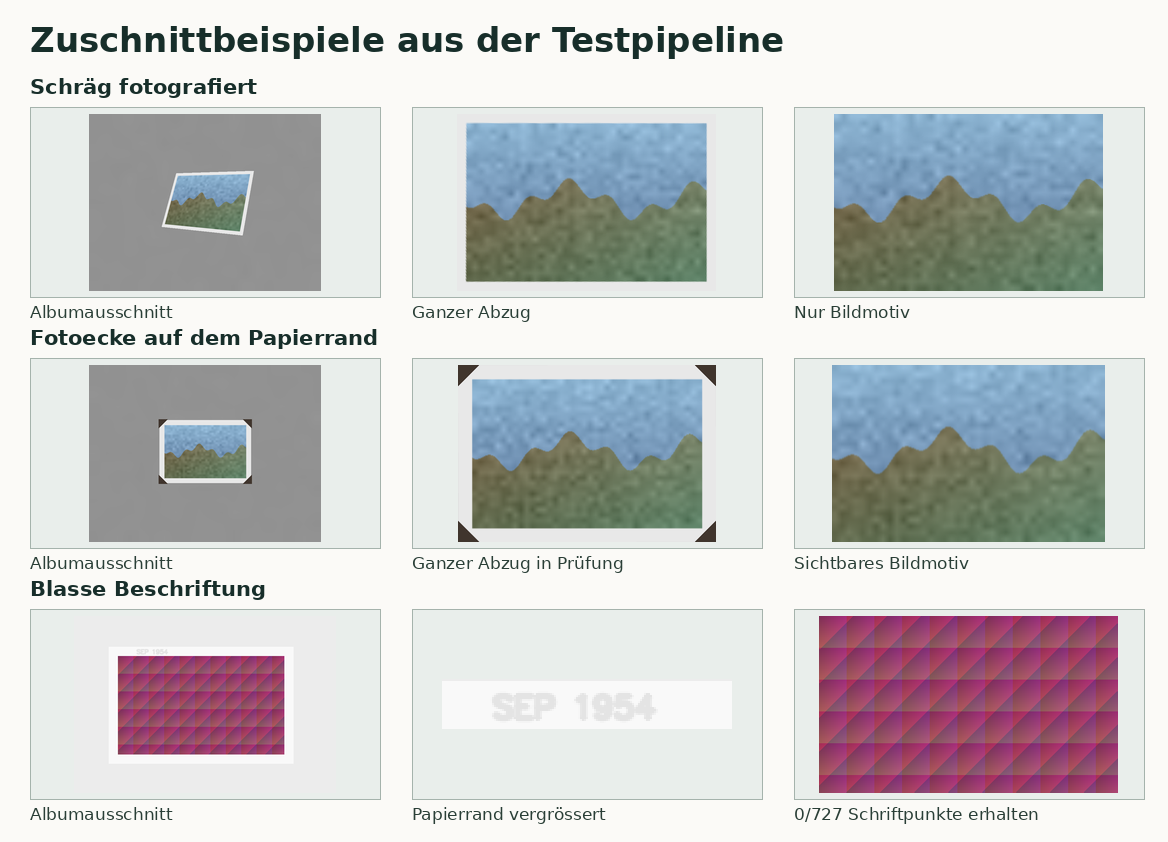
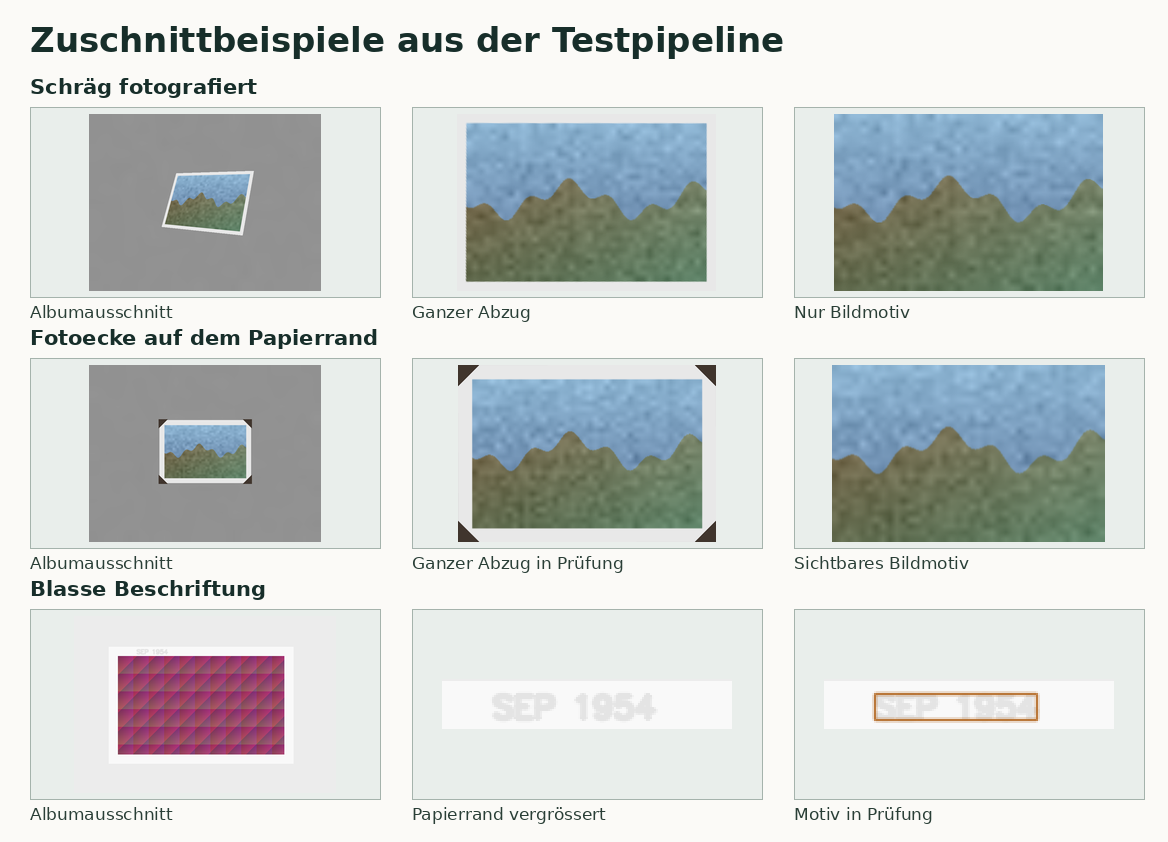
Hold motif crops that would lose faint connected dates

Changed region(s): [[0.6781, 0.7102, 0.9555, 0.9881]]

diff --git a/backend/app/pipeline/faint_margin.py b/backend/app/pipeline/faint_margin.py
@@ -59,6 +59,64 @@ def _glyph_groups(mask: np.ndarray, blue_ink: bool) -> tuple[np.ndarray, list[tu
     return labels, sorted(groups, key=lambda group: (-len(group), group))
 
 
+def _local_paper_residual(contrast: np.ndarray, owned: np.ndarray) -> np.ndarray:
+    height, width = contrast.shape
+    anchors = np.r_[np.arange(0, width - 1, max(8, height)), width - 1]
+    radius = max(20, 3 * height)
+    medians = []
+    for column in anchors:
+        band = np.s_[:, max(0, column - radius):column + radius + 1]
+        samples = contrast[band][owned[band]]
+        medians.append(float(np.median(samples)) if samples.size else 0.)
+    return contrast - np.interp(np.arange(width), anchors, medians)
+
+
+def _joined_strokes(component: np.ndarray) -> bool:
+    height, width = component.shape
+    if not 1.25 * height <= width <= 5.5 * height or not .20 <= component.mean() <= .82:
+        return False
+    # Open strokes can still branch in both directions.
+    vertical, horizontal = (np.count_nonzero(np.diff(component, axis=axis).sum(axis=axis) >= 3) for axis in (0, 1))
+    if vertical < max(3, .18 * width) or horizontal < max(3, .22 * height):
+        return False
+    distance = cv2.distanceTransform(component.astype(np.uint8), cv2.DIST_L2, 3)
+    return bool(np.quantile(distance[component], .82) >= min(1.32, .10 * height))
+
+
+def _joined_glyph_groups(mask: np.ndarray) -> tuple[np.ndarray, list[tuple[int, ...]]]:
+    _, labels, stats, centers = cv2.connectedComponentsWithStats(mask.astype(np.uint8))
+    height, width = mask.shape
+    x, y, widths, heights, areas = stats.T
+    possible = ((x > 0) & (x + widths < width) & (heights >= 5) & (heights + 2 < height)
+                & (widths >= 2) & (widths <= 5.5 * heights) & (areas >= np.maximum(5, .15 * heights ** 2)))
+    ids = np.flatnonzero(possible[1:]) + 1
+    if not 3 <= len(ids) <= 160:
+        return labels, []
+    joined = np.zeros(len(stats), dtype=bool)
+    for label in ids:
+        left, top, span, depth, _ = stats[label]
+        joined[label] = _joined_strokes(labels[top:top + depth, left:left + span] == label)
+    groups = set()
+    right, bottom = x + widths, y + heights
+    for anchor in ids[joined[ids]]:
+        scale = heights[anchor]
+        dx, dy = (centers[ids] - centers[anchor]).T
+        near = (np.abs(dx) <= 7 * scale) & (heights[ids] >= .68 * scale) & (heights[ids] <= 1.44 * scale)
+        for slope in (-.13, -.06, 0., .06, .13):
+            line = ids[near & (np.abs(dy - slope * dx) <= .42 * scale)]
+            if len(line) < 3 or joined[line].sum() < 2:
+                continue
+            line = line[np.argsort(centers[line, 0])]
+            gaps = x[line[1:]] - right[line[:-1]]
+            for row in np.split(line, np.flatnonzero(gaps > 1.3 * scale) + 1):
+                if len(row) < 3 or joined[row].sum() < 2:
+                    continue
+                baseline = bottom[row] - slope * centers[row, 0]
+                if right[row[-1]] - x[row[0]] >= 2.7 * scale and np.ptp(baseline) <= .6 * scale:
+                    groups.add(tuple(row))
+    return labels, sorted(groups, key=lambda group: (-len(group), group))
+
+
 def _source_strokes_supported(
     page: np.ndarray, forward: np.ndarray, full_size: tuple[int, int], motif: np.ndarray,
     native: np.ndarray, contrast: np.ndarray, paper_lightness: np.ndarray, blue_ink: bool,
@@ -119,16 +177,28 @@ def faint_margin_region(
     narrow_stroke = local_lightness - lightness >= np.maximum(9, 0.58 * contrast)
     red_shift = lab[:, :, 1].astype(np.float32) - cv2.medianBlur(filled[:, :, 1], broad)
     blue_shift = lab[:, :, 2].astype(np.float32) - cv2.medianBlur(filled[:, :, 2], broad)
+    neutral_ink = np.hypot(red_shift, blue_shift) <= 3
     on_pale_paper = owned & narrow_stroke & (paper_lightness >= 196)
     masks = (
-        on_pale_paper & (contrast >= 16) & (np.hypot(red_shift, blue_shift) <= 3),
+        on_pale_paper & (contrast >= 16) & neutral_ink,
         on_pale_paper & (contrast >= 13) & (blue_shift <= -6) & (np.abs(red_shift) <= 0.85 * np.abs(blue_shift) + 2),
     )
-    for blue_ink, mask in zip((False, True), masks, strict=True):
-        labels, groups = _glyph_groups(mask, blue_ink)
+
+    def candidate_groups():
+        for blue_ink, mask in zip((False, True), masks, strict=True):
+            yield blue_ink, 230, *_glyph_groups(mask, blue_ink)
+        joined_strokes = (owned & (paper_lightness >= 196) & neutral_ink
+                          & (local_lightness - lightness >= np.maximum(4, .58 * contrast)))
+        # A nonnegative paper median can only lower the absolute contrast.
+        minimum_contrast = 14.2
+        if np.count_nonzero(joined_strokes & (contrast >= minimum_contrast)) >= 15:
+            joined_strokes &= _local_paper_residual(contrast, owned) >= minimum_contrast
+            yield False, 240, *_joined_glyph_groups(joined_strokes)
+
+    for blue_ink, samples, labels, groups in candidate_groups():
         for group in groups:
             rows, columns = np.nonzero(np.isin(labels, group))
-            stride = max(1, len(rows) // 230)
+            stride = max(1, len(rows) // samples)
             source_rows, source_columns = rows[::stride], columns[::stride]
             native = project_to_source(np.column_stack((source_columns, source_rows)))
             if _source_strokes_supported(page, forward, full_size, motif, native,

diff --git a/scripts/render_crop_examples.py b/scripts/render_crop_examples.py
@@ -9,6 +9,7 @@ import numpy as np
 from PIL import Image, ImageDraw, ImageFont
 
 from app.evaluation.crop_fixtures import geometry_seed, synthetic_crop_pages
+from app.pipeline.geometry import normalized_vertices_to_pixels
 from app.pipeline.perspective import correct_photo_crop
 
 
@@ -18,7 +19,7 @@ def crop(page, box, mask):
     )
 
 
-def faint_caption():
+def faint_caption(*, include_review_overlay=False):
     scale = 2
     page = np.full((230 * scale, 340 * scale, 3), 236, np.uint8)
     page[80:384, 90:570] = 249
@@ -31,15 +32,23 @@ def faint_caption():
     mask = {"polygon": [{"x": x / 679, "y": y / 459} for x, y in points]}
     result = crop(page, {}, mask)
     state = result.metadata["crop_modes"]["image_only"]
+    detail = page[79:104, 137:282]
     if result.image_only is None:
-        return page, page[79:104, 137:282], None, "Motiv in Prüfung"
+        review = None
+        if include_review_overlay:
+            marked = page.copy()
+            for region in state.get("margin_mark_regions", []):
+                points = normalized_vertices_to_pixels([(p["x"], p["y"]) for p in region], *page.shape[1::-1])
+                cv2.polylines(marked, [np.rint(points).astype(np.int32)], True, (40, 108, 181), 1, cv2.LINE_AA)
+            review = cv2.resize(marked[79:104, 137:282], None, fx=2, fy=2, interpolation=cv2.INTER_NEAREST)
+        return page, detail, review, "Motiv in Prüfung"
 
     rows, columns = np.nonzero(ink >= 90)
     pixels = np.column_stack((columns, rows)).astype(np.float32)
     mapped = cv2.perspectiveTransform(pixels[None], np.asarray(state["page_to_output"]))[0]
     height, width = result.image_only.shape[:2]
     kept = np.count_nonzero(((mapped >= 0) & (mapped <= [width - 1, height - 1])).all(axis=1))
-    return page, page[79:104, 137:282], result.image_only, f"{kept}/{len(pixels)} Schriftpunkte erhalten"
+    return page, detail, result.image_only, f"{kept}/{len(pixels)} Schriftpunkte erhalten"
 
 
 def place_image(canvas, raster, left, top):
@@ -59,7 +68,7 @@ def main(output: Path, regular: str, bold: str):
     holder = crop(mounted.image, *geometry_seed(mounted.prints[0], mounted.image.shape))
     assert all(mode["status"] == "ready" for mode in straight.metadata["crop_modes"].values())
     assert holder.metadata["crop_modes"]["full_print"]["status"] == "review_needed" and holder.image_only is not None
-    page, detail, motif, result = faint_caption()
+    page, detail, motif, result = faint_caption(include_review_overlay=True)
     rows = (
         ("Schräg fotografiert", (
             ("Albumausschnitt", tilted.image), ("Ganzer Abzug", straight.image), ("Nur Bildmotiv", straight.image_only),

diff --git a/backend/tests/test_pipeline/test_faint_margin.py b/backend/tests/test_pipeline/test_faint_margin.py
@@ -22,6 +22,21 @@ def _margin_regions(page: np.ndarray) -> list[np.ndarray]:
     return motif_margin_marks(page, page[40:192, 45:285], motif, inverse)
 
 
+def test_joined_faint_date_in_the_readme_is_held_with_source_coordinates() -> None:
+    from scripts.render_crop_examples import faint_caption
+
+    page, _, image, state = faint_caption()
+    assert image is None and state == "Motiv in Prüfung"
+    seed = [(84, 76), (574, 74), (572, 388), (86, 386)]
+    mask = {"polygon": [{"x": x / 679, "y": y / 459} for x, y in seed]}
+    crop = correct_photo_crop(page, {}, mask, dual_mode=True, auto_orient=False, enable_classical_retry=True)
+    full, motif = (crop.metadata["crop_modes"][mode] for mode in ("full_print", "image_only"))
+    assert full["status"] == "ready" and motif["reason_codes"] == [MOTIF_MARGIN_MARKS_REVIEW]
+    region, = motif["margin_mark_regions"]
+    points = [(vertex["x"] * 679, vertex["y"] * 459) for vertex in region]
+    assert np.allclose(points, [[162, 86], [243, 86], [243, 99], [162, 99]], atol=1.)
+
+
 @pytest.mark.parametrize("contrast", [(38, 38, 38), (7, 54, 42)], ids=["graphite", "blue"])
 def test_faint_date_is_held_and_located_on_the_original(contrast) -> None:
     page = _white_print()

diff --git a/backend/app/pipeline/motif_margin.py b/backend/app/pipeline/motif_margin.py
@@ -10,7 +10,7 @@ from app.pipeline.faint_margin import faint_margin_region
 from app.pipeline.margin_stroke_shapes import isolated_margin_strokes
 
 
-MOTIF_MARGIN_REVIEW_REVISION = 3
+MOTIF_MARGIN_REVIEW_REVISION = 4
 
 
 def _mark_clusters(lightness: np.ndarray, owned: np.ndarray) -> tuple[np.ndarray, np.ndarray, list[np.ndarray]]:

diff --git a/README.md b/README.md
@@ -151,9 +151,13 @@ Strichpixel müssen dort den erforderlichen Kontrast zum Papier
 erreichen.
 
 Für schwache Schrift prüft PhoSca ausserdem schmale Striche mit
-lokalem Helligkeits- oder Farbkontrast auf beiden Seiten. Die
-Referenzpixel müssen auf demselben Papier und ausserhalb des Motivs
-liegen. Ein bestätigter Fund setzt für **Nur Bildmotiv** den
+lokalem Helligkeits- oder Farbkontrast auf beiden Seiten. Bei
+verbundenen blassen Zeichen zieht der Detektor den lokalen
+Papiermedian ab und sucht ausgerichtete Strichblöcke mit gemeinsamer
+Schriftlinie. Auch offene Zeichen können zu diesem Signal beitragen.
+Die bestätigenden Originalpixel müssen auf demselben Papier und
+ausserhalb des Motivs liegen. Ein bestätigter Fund setzt für
+**Nur Bildmotiv** den
 Prüfgrund `IMAGE_MARGIN_MARKS_REVIEW` und speichert eine
 Fundstelle in Koordinaten der Quelle. Der Hinweis fordert dazu auf,
 den gesamten Rand zu prüfen. Die Prüfung verändert die Geometrie und
@@ -459,13 +463,13 @@ fehlen damit konkrete Artefakte und eine dazu passende Kalibrierung.
    Sehr dünne aufgelegte Abzüge mit derselben Vorlage können
    dieselben Übergänge zeigen. Ihre Anzahl bleibt eine Prüfentscheidung.
    [Fusionsprüfung und ScanCropper-Ablation](data/evaluation/README.md#audit-cross-source-fusion-and-scalloped-stock-conflicts)
-3. **Restfehler bei blasser und offener Schrift prüfen.** Ein Prototyp
-   gruppiert die verbundenen Striche des blassen Datums im
-   Papierstreifen und gibt einen Prüfhinweis. Der Abzug des lokalen
-   Papiermedians schnitt in den bisherigen Gegenproben besser ab
-   als eine vollständige Normierung nach Papierrauschen. Die
-   Entwicklungsmessung braucht noch eine Gegenprüfung auf weiteren
-   Originalen und ganzen Zuschnitten.
+3. **Restfehler bei blasser und offener Schrift prüfen.** Der lokal
+   geschätzte Papiermedian und die Gruppierung verbundener
+   Striche bringen das blasse Beispieldatum in Prüfung. In der
+   gepaarten Serie bleiben 22 von 54 früher verlustreichen
+   Motivzuschnitten offen. Besonders schwacher Kontrast,
+   Einzelzeichen und isolierte Striche brauchen weitere
+   Gegenproben auf ganzen Originalen.
    [Vergleich der Schrifterkennung](data/evaluation/README.md#compare-local-paper-centering-and-noise-scaling-for-faint-dates)
 4. **Zwei echte Albumgruppen als unabhängigen Endtest sichern.** Die
    Quellenaufarbeitung soll nutzbare Originale mit belegtem Papier-
@@ -478,7 +482,7 @@ fehlen damit konkrete Artefakte und eine dazu passende Kalibrierung.
 
 ## Beispiele und offene Fälle
 
-![Drei generierte Fälle mit Eingabe und Ergebnissen. Eine Schrägaufnahme gelingt in beiden Modi. Bei einer verdeckten Papierecke bleibt der ganze Abzug in Prüfung. Ein blasser Datumsaufdruck wird vom Motivzuschnitt abgeschnitten.](docs/images/crop-examples.png)
+![Drei generierte Fälle mit Eingabe und Ergebnissen. Eine Schrägaufnahme gelingt in beiden Modi. Bei einer verdeckten Papierecke bleibt der ganze Abzug in Prüfung. Bei einem blassen Datumsaufdruck liegt das Motiv in Prüfung.](docs/images/crop-examples.png)
 
 - **Schrägaufnahme.** Beide Zuschnitte gelingen. PhoSca entzerrt den ganzen
   Abzug und entfernt im Motivmodus den hellen Papierrand. Die synthetische
@@ -487,11 +491,11 @@ fehlen damit konkrete Artefakte und eine dazu passende Kalibrierung.
 - **Fotoecke auf Papier.** Für den ganzen Abzug erscheint eine
   Prüfvorschau. Das vollständig sichtbare Motiv lässt sich in dieser
   synthetischen Probe separat entzerren.
-- **Blasser Datumsaufdruck.** Der Motivzuschnitt erhält in dieser Probe
-  keinen der 727 vermessenen Schriftpunkte auf dem Rand. Blasse Schrift,
-  einzelne Zeichen und durchgehende Schriftzüge
-  erkennt die Randprüfung noch nicht zuverlässig. Der automatische
-  Produktdownload bleibt gesperrt.
+- **Blasser Datumsaufdruck.** Der frühere Motivzuschnitt verlor in
+  dieser Probe alle 727 vermessenen Schriftpunkte. Jetzt markiert
+  PhoSca den verdächtigen Randbereich im Original und hält den
+  Motivexport für die gezielte Korrektur zurück. Nach der bewussten
+  Korrektur enthielt der exportierte Zuschnitt alle 727 Messpunkte.
 - **Echter Kontaktabzug.** PhoSca markierte einen Teil der Beschriftung
   am Original. Nach der manuellen Korrektur mit Test-Papiermassen
   enthielten beide Galerie-Downloads alle 35 Bildfelder. Im Motiv

diff --git a/data/evaluation/README.md b/data/evaluation/README.md
@@ -2860,7 +2860,7 @@ Domoritz, the JPEG55 contact sheet and the stock challenge reproduce
 all previous detection, mask, render and mode availability metrics.
 The frozen synthetic detections and the separate 11/11 full-print and
 12/12 motif seeded geometry results also reproduce. The very pale date
-in the README example remains an open loss case.
+in the README example was still lost at this revision.
 
 In 36 paired warm samples on one OpenCV thread, the unmarked
 `1920 × 1160` fixture took 82.53 ms before and 82.35 ms after at the
@@ -3064,10 +3064,32 @@ paired MAD trial adds four reviews for known full lettering loss and
 preserves the whole-print bytes. The paired locally centred variant
 also adds four reviews for known full lettering loss and adds a
 location hint to two already-held variants. All 162 whole-print
-outputs remain byte-identical. Trials on additional original material
-are pending.
-These are development experiments. The checked-in faint-date example
-still reproduces the original loss.
+outputs remain byte-identical. The existing controls and real
+development replays keep their previous review availability.
+
+Revision 4 uses the locally centred variant after the existing
+neutral and blue-ink passes. A mark must exceed the local paper
+residual median by at least 14.2 Lab lightness levels. The run
+needs three similar-height components with a shared baseline and
+two wider components with structure in both directions. A final
+native matched-paper flank check uses the original contrast.
+The generated README example now routes the very pale date to
+review. The prior crop retained 0 of 727 sampled stroke centres.
+In the normal upload flow the example produces one proposal.
+After confirming the whole-print corners, the whole print returns
+200 while the motif and the legacy trimmed alias return 404.
+A generic geometry approval returns 409. An explicit motif edit
+then keeps all 727 sampled stroke centres in the export, with
+the same whole-print JPEG bytes before and after the motif edit.
+
+Paired final runs reproduce both modes' summaries for the frozen
+benchmarks, Golden, NerdScan, Domoritz, both contact-sheet JPEGs
+and the stock challenge. The exact strip matrix gains one additional
+faint-date detection (52/216 to 53/216) and adds no hold among
+660 controls. The complete isolated margin check for the README
+date takes 6.05 to 9.08 ms median and 7.33 to 11.82 ms at p95 over
+40 warm paired one-thread samples. With the same paper cleared, the
+median changes from 5.70 to 5.80 ms.
 
 ### Verify that catalogued pairs represent independent acquisitions
 
